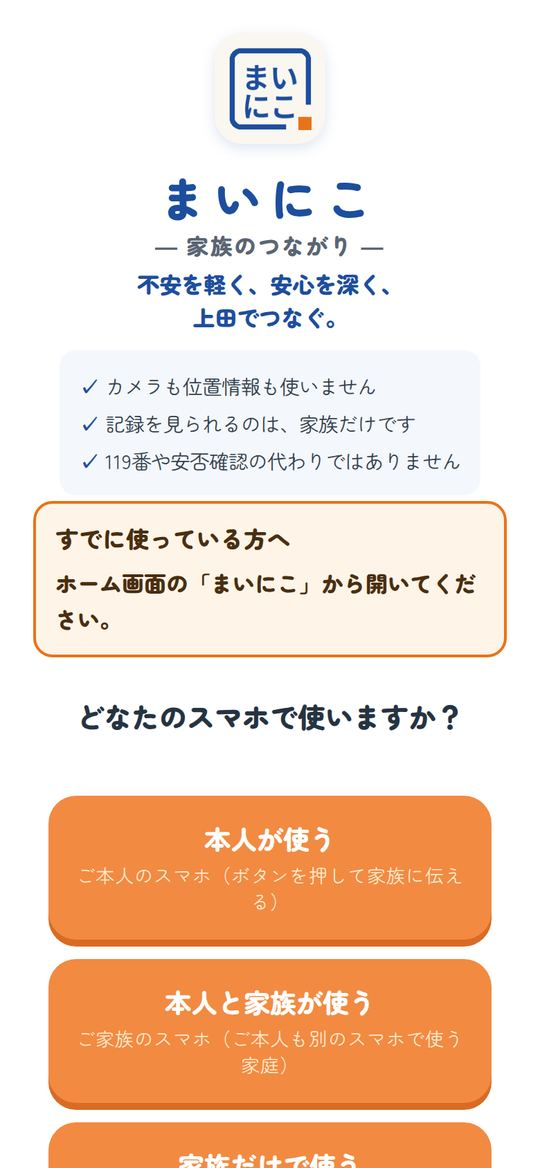
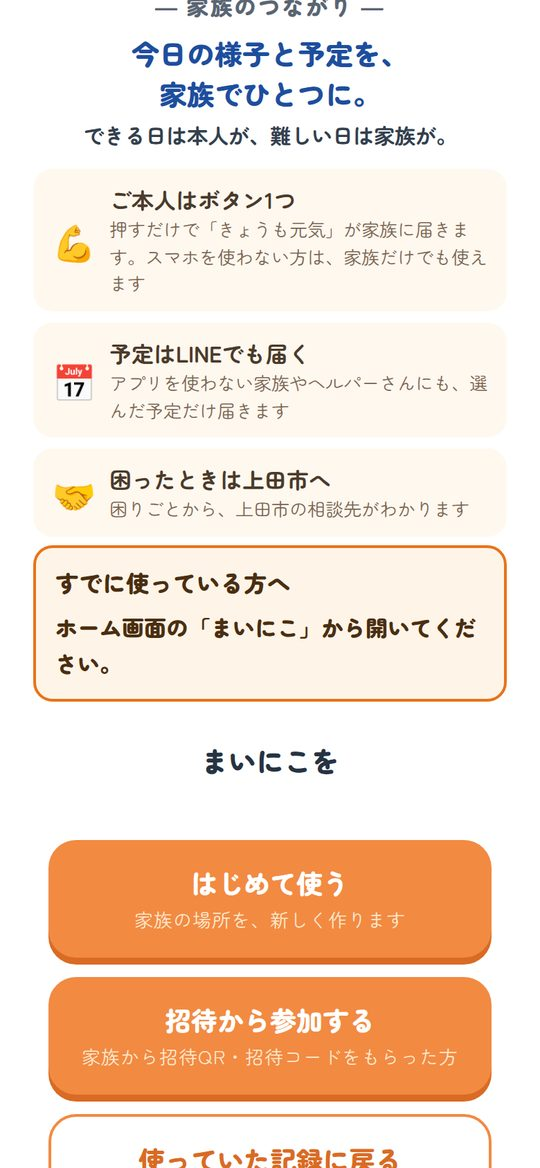
通し確認で見つけた不具合：LINEの知らせる人・家族のLINE表示・メール復旧後の画面・古い説明 (#141)
* LINEの通知：新しい予定で「知らせる人」を選べるように・家族のLINE登録を開いたままの画面にすぐ反映

試験環境で、送信役(worker.js)も実際に動かした通し確認で見つけた2点。
- 家族の予定の入力欄を開いた直後は「LINEで知らせる人」が出ず、選べないまま保存すると
  LINEをつないだ家族全員に届いていた(2件目からは出ていた)。欄を開いたときに出す
- LINE設定を開いたまま、ほかの家族がLINEを登録しても「まだ登録していません」のままだった。
  登録・解除の記録を見張って、すぐ表示を変える
- 再発防止の検査を追加。line-notify.js の読み込み版と sw のキャッシュ名を更新

Claude-Session: https://claude.ai/code/session_01NHzjzuWBmHWp9wX2PF6KgL

* メールで復旧したあと、新しいスマホで使い方を選び直させない・説明を今の入口にそろえる

試験環境の通し確認(古いスマホで復旧設定 → 新しいスマホで「使っていた記録に戻る」)で発見。
- 復旧すると同じ家庭に戻れていたが、入口の「使い方を選んでから」に戻され、「はじめて使う」などが並んでいた。
  使い方はサーバーに保存した本人の選択なので、それで開く(同意は起動時にサーバーで確かめる。古いあいまいな記録は今までどおり選び直し)
- ヘルプ・写真つきの使い方・手順書が、もうない入口のボタン(本人と家族が使う・招待された方・以前のアカウントを復旧する)を案内していた。
  今の入口(はじめて使う／招待から参加する／使っていた記録に戻る→メールとパスワードで戻る)に直し、入口の写真も差し替え
- 復旧画面のボタンと見出しも「メールとパスワードで戻る」「使っていた記録に戻る」にそろえる

Claude-Session: https://claude.ai/code/session_01NHzjzuWBmHWp9wX2PF6KgL

---------

diff --git a/help.html b/help.html
@@ -64,9 +64,9 @@
 <p>家族画面は「安心」→「お薬手帳を開く」、本人画面は「その他の設定」→「このスマホのお薬手帳」から、資料を開いて拡大できます。不要な控えは１件ずつ削除できます。</p>
 <p><a href="#trouble">動かない・保存できないときはこちら</a></p></section>
 
-<section id="start"><h2>はじめの3ステップ</h2><p>新しく作った家庭では、本人の画面ははじめ「おはよう」「お薬」「今日の調子」「ちょっとお願い」「今日の予定」だけの短い形です。カレンダー・自分のやること・予定を入れるボタンは、家族の画面の「⚙ 設定」→「ご本人の画面に出すもの」で出せます。お薬は朝・昼・夜ごとに出す／出さないを選べます。</p><p>家族の画面を初めて開くと、「やりとり → 今日のこと → 設定」の順に短い道案内が出ます。もう一度見たいときは、家族の画面の「⚙ 設定」→「使い方・困ったとき」→「使い方の道案内をもう一度見る」を押してください。</p><p><a href="setup-guide.html">ご家族が代わりに設定するときの手順書（A4で1枚・印刷できます）</a></p><p>本人ホームには今日届いた連絡を表示します。前日以前の挨拶やメッセージは「前の連絡を見る」で日付を選んで確認できます。履歴は削除されません。</p><p>本人画面の日付・時刻、今日の予定、これからの予定、挨拶・気分・服薬・お願いなどの押せる場所は、押すと沈み込み、約0.65秒その状態を見せてから操作が進みます。連打する必要はありません。送信中・記録済み・通信エラーは別の表示で確認してください。</p><ol><li><strong>使い方を選ぶ</strong><br>使い方に合わせて「本人が使う」か「本人と家族が使う」を選びます。本人の代わりに記録する場合は「家族だけで使う」を選びます。本人に分かる方法で説明し、意思を確認してください。</li><li><strong>説明と同意を確認する</strong><br>はじめに「3つのお約束」が大きな字で出ます（本人の画面では声でも読み上げます）。「この内容で進む」を押すと、5つの確認が出ます。内容を読んでから進みます。拒否や不快感がある場合は中止してください。</li><li><strong>家庭を作る、または招待で参加する</strong><br>初めての家庭は作成へ、既に家族が使っている場合は招待で参加へ進みます。新しい家庭を重ねて作らないよう、家族に確認してください。</li></ol><div class="modes"><div class="mode"><h3>本人が使う</h3><p>本人が挨拶や日々の様子などを伝える画面です。</p></div><div class="mode"><h3>本人と家族が使う</h3><p>家族用の画面です。本人からの記録を確認し、返事や予定を共有します。</p></div><div class="mode"><h3>家族だけで使う</h3><p>家族が確認した様子を、家族自身の記録として残します。本人の入力や意思とは区別します。</p></div></div></section>
+<section id="start"><h2>はじめの3ステップ</h2><p>新しく作った家庭では、本人の画面ははじめ「おはよう」「お薬」「今日の調子」「ちょっとお願い」「今日の予定」だけの短い形です。カレンダー・自分のやること・予定を入れるボタンは、家族の画面の「⚙ 設定」→「ご本人の画面に出すもの」で出せます。お薬は朝・昼・夜ごとに出す／出さないを選べます。</p><p>家族の画面を初めて開くと、「今日見ること → 記録する → 設定」の順に短い道案内が出ます。もう一度見たいときは、家族の画面の「⚙ 設定」→「使い方・困ったとき」→「使い方の道案内をもう一度見る」を押してください。</p><p><a href="setup-guide.html">ご家族が代わりに設定するときの手順書（A4で1枚・印刷できます）</a></p><p>本人ホームには今日届いた連絡を表示します。前日以前の挨拶やメッセージは「前の連絡を見る」で日付を選んで確認できます。履歴は削除されません。</p><p>本人画面の日付・時刻、今日の予定、これからの予定、挨拶・気分・服薬・お願いなどの押せる場所は、押すと沈み込み、約0.65秒その状態を見せてから操作が進みます。連打する必要はありません。送信中・記録済み・通信エラーは別の表示で確認してください。</p><ol><li><strong>使い方を選ぶ</strong><br>入口で「はじめて使う」を押し、「このスマホで操作するのは？」に「本人」か「家族」で答えます。「家族」のときは「ご本人も、自分のスマホで使いますか？」に「使う」か「家族だけで使う」で答えます。本人に分かる方法で説明し、意思を確認してください。</li><li><strong>説明と同意を確認する</strong><br>はじめに「3つのお約束」が大きな字で出ます（本人の画面では声でも読み上げます）。「この内容で進む」を押すと、5つの確認が出ます。内容を読んでから進みます。拒否や不快感がある場合は中止してください。</li><li><strong>家庭を作る、または招待で参加する</strong><br>初めての家庭は作成へ、既に家族が使っている場合は入口の「招待から参加する」へ進みます。新しい家庭を重ねて作らないよう、家族に確認してください。</li></ol><div class="modes"><div class="mode"><h3>本人が使う</h3><p>本人が挨拶や日々の様子などを伝える画面です。</p></div><div class="mode"><h3>本人と家族が使う</h3><p>家族用の画面です。本人からの記録を確認し、返事や予定を共有します。</p></div><div class="mode"><h3>家族だけで使う</h3><p>家族が確認した様子を、家族自身の記録として残します。本人の入力や意思とは区別します。</p></div></div></section>
 <section id="family"><h2>家族を招待する</h2>
-<ol><li>管理者が「設定」→「家族の管理」→「家族を追加する」から招待を発行します。</li><li>相手にだけ、非公開の方法で招待コードを渡します。</li><li>参加する人がまいにこを開きます。ご家族は入口の「招待された方」、ご本人のスマホは入口の「本人が使う」を選び、案内に沿って進み、「招待QRを読み取る」を押して管理者の画面に出ている招待QRを映します（カメラの映像は保存も送信もしません）。カメラが使えないときは、コードの文字を入力します。管理者が相手を確かめ、「参加を認める」を押すと、共有機能が使えるようになります。</li></ol>
+<ol><li>管理者が「設定」→「家族の管理」→「家族を追加する」から招待を発行します。</li><li>相手にだけ、非公開の方法で招待コードを渡します。</li><li>参加する人がまいにこを開き、入口の「招待から参加する」を押して、「このスマホで操作するのは？」に答えます。案内に沿って進み、「招待QRを読み取る」を押して管理者の画面に出ている招待QRを映します（カメラの映像は保存も送信もしません）。カメラが使えないときは、コードの文字を入力します。管理者が相手を確かめ、「参加を認める」を押すと、共有機能が使えるようになります。</li></ol>
 <h3>承認を待っているとき</h3><p>「参加状況を確認する」を押します。通信が確認できない間は、そのまま待てます。申請を取り下げたり、同じ申請を続けて送ったりする必要はありません。</p><details><summary>招待した人にお願いするとき</summary><p>まいにこを開き、あなたの参加を認めてもらってください。今連絡できなくても、申請を取り下げる必要はありません。承認待ち画面の案内も確認できます。</p></details>
 <p>コードの発行・入力だけでは共有は始まりません。別の家族の参加がなくなっても、ホームの「やりとり」の欄は残ります。確認できる以前の連絡を読めますが、送り先がいない間は返事を送れません。前の連絡もホームから、本人は「前の連絡を見る」、家族は「前の日のやりとりを見る」で確認できます。</p>
 <p class="small">コードが使用済み・期限切れと確認された場合は、新しい招待をお願いします。管理者の役割を他の人へ譲る機能はありません。</p></section>
@@ -82,14 +82,14 @@
 <ol><li>家族は「設定」→「機種変更・アカウントの復旧」→「端末をなくす前に復旧を設定する」、ご本人は「その他の設定」→「機種変更・スマホをなくしたとき」→「復旧を設定する」を開きます。まだ設定していないときは、設定の画面に「復旧が未設定です」と出ます。</li><li>自分で確認できるメールアドレスと、新しく設定する12文字以上のパスワードを入力し、「このアカウントの復旧を設定する」を押します。</li><li>届いた確認メールのリンクを開いてから、まいにこへ戻り「確認できたか調べる」を押します。準備完了の表示まで確認します。</li></ol>
 <p>メールとパスワードは安全に保管します。チャットや状況メモに書く必要はありません。</p>
 <h3>復旧の準備が済んでいる：新しいスマホで戻る</h3>
-<ol><li>新しいスマホでまいにこを開き、入口の「以前のアカウントを復旧する」を選びます。</li><li>登録・確認済みのメールとパスワードを入力して復旧します。忘れた場合は「パスワードを忘れた方」を使います。</li><li>元の家庭の予定や共有記録が見られることを確認します。確認できない間は、新しい家庭を作ってやり直さず、通信と表示内容を確かめます。</li></ol>
+<ol><li>新しいスマホでまいにこを開き、入口の「使っていた記録に戻る」→「メールとパスワードで戻る」を選びます。</li><li>登録・確認済みのメールとパスワードを入力して復旧します。忘れた場合は「パスワードを忘れた方」を使います。</li><li>元の家庭の予定や共有記録が見られることを確認します。確認できない間は、新しい家庭を作ってやり直さず、通信と表示内容を確かめます。</li></ol>
 <p><strong>お薬手帳の写真・PDFはログイン復旧では戻りません。</strong>旧端末が使える場合は、<a href="#medicine">資料を別に移す手順</a>へ進みます。旧端末が使えない場合は、紙の原本や別に保管したファイルを確認してください。</p>
 <details><summary>機種変更後、古いスマホを片付ける</summary><p>新しいスマホで共有記録と必要な資料を開けることを確認してから、旧端末だけのブラウザーの保存内容や不要なファイルを整理します。</p><p><strong>旧端末の片付けに「参加解除」「ログイン登録削除」「共有データ削除」は使いません。</strong>同じアカウントを使う新端末にも影響します。旧端末の写真を遠隔で消したり、遠隔でログアウトしたりする機能はありません。</p></details>
 <h3>準備する前に端末・保存情報を失った</h3>
 <p>復旧設定がない匿名アカウントへ、元どおり戻ることはできません。別の管理者が家庭を利用できる場合は、新しい招待を受けて、新しい参加者として使う方法があります。元の記録の作成者権限が戻るわけではありません。</p></section>
 <section id="owner"><h2>管理者がスマホをなくしたとき・管理者の交代</h2>
 <table><thead><tr><th>状態</th><th>できること</th></tr></thead><tbody>
-<tr><td>復旧設定済み</td><td>新しいスマホで「以前のアカウントを復旧する」。管理者のまま戻れます。</td></tr>
+<tr><td>復旧設定済み</td><td>新しいスマホで「使っていた記録に戻る」→「メールとパスワードで戻る」。管理者のまま戻れます。</td></tr>
 <tr><td>未設定だが、元のスマホがまだ使える</td><td>先に元のスマホで復旧を設定してください。または、下の「管理者の交代」で家族に引き継げます。</td></tr>
 <tr><td>未設定で、元のスマホも使えない</td><td>元のアカウントには戻れません。管理者も自動では移りません。ほかの家族は、記録・予定・やりとりを今までどおり使えます。</td></tr>
 </tbody></table>

diff --git a/line-notify.js b/line-notify.js
@@ -106,10 +106,11 @@
      本人の画面では、カード2〜4を「LINEの送信先（ほかの人）」の中にたたむ
      招待した人(アプリを使わない人)には、予定ごとに「知らせる」と選んだ予定だけが届く。
      LINEの利用者識別子は画面に置かない(登録は送信役が、署名を確かめたLINEの受付から行う) */
-  var renderSeq=0, linkWatch=null, recipientWatch=null, INVITE_DAYS=7;
+  var renderSeq=0, linkWatch=null, recipientWatch=null, familyWatch=null, INVITE_DAYS=7;
   function stopWatch(){
     if(linkWatch){ try{ linkWatch(); }catch(e){} linkWatch=null; }
     if(recipientWatch){ try{ recipientWatch(); }catch(e){} recipientWatch=null; }
+    if(familyWatch){ try{ familyWatch(); }catch(e){} familyWatch=null; }
   }
   /* LINEのトーク画面を、文字を入れた状態で開くURL(送信を押すだけ) */
   function sendCodeUrl(code){ return 'https://line.me/R/oaMessage/'+encodeURIComponent(LINE_ID)+'/?'+encodeURIComponent(code); }
@@ -275,25 +276,28 @@
     var box=area.querySelector('[data-line-family]');
     if(!box||typeof global.col!=='function') return;
     var members=[], latest={}, friendAt={};
-    try{
-      var ms_=await global.col('members').where('status','==','approved').get();
-      ms_.forEach(function(d){ var v=d.data()||{}; members.push({id:d.id,name:v.name||'',role:roleOf(v)}); });
-      var logs=await global.col('events').where('type','==','line-link-log').get();
-      var rows=[]; logs.forEach(function(d){ rows.push(d.data()); });
+    /* 連携・解除の最新と、友だち追加の確認の最新を分けて見る('friend'は友だち追加を確認した記録) */
+    var readLogs=function(snap){
+      var rows=[]; snap.forEach(function(d){ rows.push(d.data()); });
       rows.sort(function(a,b){ return ms(b)-ms(a); });
-      /* 連携・解除の最新と、友だち追加の確認の最新を分けて見る('friend'は友だち追加を確認した記録) */
+      latest={}; friendAt={};
       rows.forEach(function(v){
         if(!v.uid) return;
         if(v.action==='friend'){ if(!(v.uid in friendAt)) friendAt[v.uid]=v; return; }
         if(!latest[v.uid]) latest[v.uid]=v;
       });
+    };
+    try{
+      var ms_=await global.col('members').where('status','==','approved').get();
+      ms_.forEach(function(d){ var v=d.data()||{}; members.push({id:d.id,name:v.name||'',role:roleOf(v)}); });
+      readLogs(await global.col('events').where('type','==','line-link-log').get());
     }catch(e){
       if(seq===renderSeq) box.innerHTML='<p class="note">送信先を読み込めませんでした。通信を確認してください。</p>';
       return;
     }
     if(seq!==renderSeq) return;
     members.sort(function(a,b){ return (a.id===myUid?-1:0)-(b.id===myUid?-1:0); });
-    familyRows=members.map(function(m){
+    var makeRows=function(){ familyRows=members.map(function(m){
       var self=m.id===myUid, l=latest[m.id];
       var on=self?!!selfLinked:!!(l&&l.action==='linked');
       var friend=null;
@@ -305,7 +309,8 @@
         if(!self&&f&&l&&ms(f)>=ms(l)) friend=true;
       }
       return {id:m.id,name:m.name,role:m.role,self:self,ok:on,friend:friend};
-    });
+    }); };
+    makeRows();
     var g=typeof global.gid==='function'?global.gid():'';
     var recBox=area.querySelector('[data-line-recipients]');
     var draw=function(){
@@ -321,6 +326,14 @@
         draw();
       },function(){ recipientRows=[]; draw(); });
     }catch(e){ recipientRows=[]; draw(); }
+    /* ほかの家族がLINEを登録・解除したら、開いたままの画面もすぐ変える(2026-10-10 通し確認で発見:
+       開いたままだと「まだ登録していません」「LINEの登録を頼む」が残っていた)。自分の行は watchLink が変える */
+    try{
+      familyWatch=global.col('events').where('type','==','line-link-log').onSnapshot(function(snap){
+        if(seq!==renderSeq) return;
+        readLogs(snap); makeRows(); draw();
+      },function(){});
+    }catch(e){}
     draw();
   }
   /* LINEの状態の表示(ヒビルカと同じ「✓ 登録済み」)。友だち追加が「ない」と分かったときだけ警告する */

diff --git a/index.html b/index.html
@@ -1223,7 +1223,7 @@ a.set-btn.ln-line,a.set-btn.ln-soft{text-decoration:none;}
     <p class="note">この端末で今開いている登録には復旧設定がありません。切り替えると今の登録に戻れなくなることがあります。今の記録やお薬手帳は、切り替え先には移りません。</p>
     <label style="display:block;padding:16px 0"><input type="checkbox" id="recovery-leave-confirm"> 今の登録に残したい記録・お薬手帳はありません</label>
   </div>
-  <button class="set-btn" id="recovery-login" onclick="runRecoveryAction('login')">以前のアカウントを復旧する</button>
+  <button class="set-btn" id="recovery-login" onclick="runRecoveryAction('login')">メールとパスワードで戻る</button>
   <button class="set-btn" onclick="runRecoveryAction('reset')">パスワードを忘れた方</button>
   <p class="note">写真・PDFのお薬手帳は、このログイン復旧では戻りません。機種変更後の旧端末で、参加解除やアカウント削除はしないでください。</p>
   <a class="consent-back" href="help.html#recovery" target="_blank" rel="noopener">状況に合う復旧・機種変更の手順を見る</a>
@@ -2110,7 +2110,7 @@ a.set-btn.ln-line,a.set-btn.ln-soft{text-decoration:none;}
     <!-- 予定 -->
     <div class="ftab" id="t-yotei" style="display:none;">
       <div class="card dom-yotei" id="line-schedule-detail" style="display:none;" aria-live="polite"></div>
-      <details class="card dom-yotei schedule-form-card" id="yt-form-card" ontoggle="if(!this.open&&editingYoteiId)clearYoteiForm()">
+      <details class="card dom-yotei schedule-form-card" id="yt-form-card" ontoggle="if(this.open)ensureYoteiWho();else if(editingYoteiId)clearYoteiForm()">
         <summary class="yt-open">＋ 予定を入れる</summary>
         <h3 id="yt-form-title">予定を登録する</h3>
         <div class="yt-simple">
@@ -2396,14 +2396,14 @@ setTimeout(function(){
 /* 引っ越しの番号は、起動の最初にURLから取り出して消す(画面にも記録にも出さない) */
 window.mainicoMoveCode=MainicoDeviceMove.takeCode(location,history);
 </script>
-<script src="household-ui.js?v=20261010"></script>
+<script src="household-ui.js?v=20261010b"></script>
 <script src="medicine-notebook.js?v=20261001"></script>
 <script src="notebook-integration.js?v=20260930"></script>
 <script src="person-speech.js?v=20260917-voice"></script>
 <script src="person-button-feedback.js?v=20260917-voice"></script>
 <script src="family-connection.js?v=20260917-legacy"></script>
 <script src="person-tasks.js?v=20260930"></script>
-<script src="line-notify.js?v=20261010a"></script>
+<script src="line-notify.js?v=20261010b"></script>
 <script src="line-login.js?v=20261001"></script>
 <script src="line-login-ui.js?v=20261003"></script>
 <script src="hitokoe.js?v=20261004"></script>
@@ -6827,6 +6827,13 @@ function setYoteiSaveState(text,isError){
   const el=document.getElementById('yt-save-state');
   el.textContent=text||'';
   el.classList.toggle('err',!!isError);
+}
+/* 新しい予定の「LINEで知らせる人」を、入力欄を開いたときに出す(2026-10-10 最終レビューの通し確認で発見)。
+   出していないと選べず、保存するとLINEをつないだ家族全員に届いていた。修正中の予定は editYotei が出す */
+function ensureYoteiWho(){
+  if(editingYoteiId||typeof MainicoLine==='undefined'||!MainicoLine.renderWho)return;
+  const box=document.getElementById('yt-notify-who');
+  if(box&&!box.innerHTML.trim())MainicoLine.renderWho('yt-notify-who',null);
 }
 function clearYoteiForm(){
   editingYoteiId='';

diff --git a/guide/index.html b/guide/index.html
@@ -143,7 +143,7 @@
     <div class="step with-pic">
       <div>
         <h3><span class="n">1</span>まいにこを開いて、使い方を選ぶ</h3>
-        <p>上の <span class="btnlike or">アプリを開く</span> を押します。<br>家族のスマホなら <span class="btnlike or">本人と家族が使う</span> を選びます。</p>
+        <p>上の <span class="btnlike or">アプリを開く</span> を押し、<span class="btnlike or">はじめて使う</span> → <span class="btnlike or">家族</span> と進みます。<br>ご本人も自分のスマホで使うなら <span class="btnlike or">使う</span>、家族だけで使うなら <span class="btnlike or">家族だけで使う</span> を選びます。</p>
       </div>
       <div class="phones"><figure class="phone"><div class="frame"><img src="img/01-entry.jpg" alt="まいにこの入口の画面" loading="lazy"></div><figcaption>最初の画面</figcaption></figure></div>
     </div>
@@ -328,7 +328,7 @@
         <h3><span class="n">1</span>「復旧を設定する」</h3>
         <p>「設定」→「機種変更・アカウントの復旧」で、メールアドレスとパスワード（12文字以上）を入れます。届いたメールのリンクを開けば完了です。</p>
         <h3><span class="n">2</span>新しいスマホで戻る</h3>
-        <p>新しいスマホでまいにこを開き、入口の <span class="btnlike">以前のアカウントを復旧する</span> から入ります。</p>
+        <p>新しいスマホでまいにこを開き、入口の <span class="btnlike">使っていた記録に戻る</span> → <span class="btnlike">メールとパスワードで戻る</span> から入ります。</p>
         <div class="tip"><b>ポイント</b>　ご本人も家族も、それぞれ自分のスマホで設定してください。パスワードは紙に書かず、安全な場所に。</div>
       </div>
       <div class="phones"><figure class="phone"><div class="frame"><img src="img/18-recovery.jpg" alt="復旧の設定" loading="lazy"></div><figcaption>復旧の設定</figcaption></figure></div>

diff --git a/household-ui.js b/household-ui.js
@@ -134,6 +134,9 @@ function applyRecoveryJournal(){
   previewStorage.setItem('mainicoMode',result.mode==='honnin'?'honnin':'kazoku');
   previewStorage.setItem('kazokuOnly',result.mode==='konly'?'1':'');
   if(result.modeNeedsConfirmation)previewStorage.removeItem('mainicoMode');
+  /* 使い方はサーバーに保存した本人の選択(member.mode)なので、新しいスマホでもそのまま開く(2026-10-10 通し確認で発見:
+     メールで復旧すると入口の「使い方を選んでから」に戻され、「はじめて使う」と迷っていた)。同意は起動時にサーバーで確かめる */
+  else previewStorage.setItem('mainicoModeChoiceV1',JSON.stringify([result.uid,result.groupId,result.mode]));
   localStorage.removeItem(RECOVERY_JOURNAL);
   return true;
 }
@@ -158,7 +161,7 @@ async function openRecovery(switchAccount=false){
   pw.value='';pw.setAttribute('autocomplete',newPassword?'new-password':'current-password');
   const pwLabel=document.getElementById('recovery-password-label');
   if(pwLabel)pwLabel.textContent=newPassword?'新しいパスワード（12文字以上・ほかで使っていないもの）':'登録したパスワード';
-  document.getElementById('recovery-title').textContent=registering?'復旧の設定（機種変更・なくしたときのため）':'以前のアカウントに戻す';
+  document.getElementById('recovery-title').textContent=registering?'復旧の設定（機種変更・なくしたときのため）':'使っていた記録に戻る';
   recoveryState(switchAccount?'復旧設定を済ませたメールアドレスとパスワードを入力してください。':gid()?'このアカウントに、復旧用のメールアドレスを登録します。確認メールのリンクを開いたあと「確認できたか調べる」を押してください。':'以前に登録・確認したメールアドレスで、家族との接続を復旧します。');
 }
 function closeRecovery(){

diff --git a/guide/trouble.html b/guide/trouble.html
@@ -163,7 +163,7 @@
     <div id="newphone" class="step with-pic">
       <div>
         <h3><span class="n">6</span>スマホを替えた・なくした</h3>
-        <p>新しいスマホでまいにこを開き、<span class="btnlike">以前のアカウントを復旧する</span> から、復旧で設定したメールとパスワードを入れます。</p>
+        <p>新しいスマホでまいにこを開き、<span class="btnlike">使っていた記録に戻る</span> → <span class="btnlike">メールとパスワードで戻る</span> から、復旧で設定したメールとパスワードを入れます。</p>
         <p>なくしたスマホは、「設定」→「機種変更・アカウントの復旧」→ <span class="btnlike">ほかのスマホを止める</span> で使えなくできます。</p>
         <div class="tip"><b>ポイント</b>　復旧の設定をしていないと戻れません。いまのうちに設定してください（<a href="./#recovery">やり方</a>）。</div>
       </div>

diff --git a/setup-guide.html b/setup-guide.html
@@ -44,7 +44,7 @@ footer{font-size:10.5px;color:#555;margin-top:6px}
 <h2>1．ご家族のスマホで（先に行います）</h2>
 <ol>
   <li><span class="who">家族</span>上のQRを読み取り、まいにこを開く。「ホーム画面に追加」をしておく</li>
-  <li><span class="who">家族</span>入口で<b>「本人と家族が使う」</b>を選び、説明を読んで同意し、「家族とつながる」画面で<b>「新しくはじめる」</b>を押す</li>
+  <li><span class="who">家族</span>入口で<b>「はじめて使う」→「家族」→「使う」</b>を選び、説明を読んで同意し、「家族とつながる」画面で<b>「新しくはじめる」</b>を押す</li>
   <li><span class="who">家族</span>「設定」→「家族の管理」→「家族を追加する」の<b>「招待コードを作る」</b>。8文字のコードを下のメモ欄に書く（24時間・1回だけ使えます）</li>
 </ol>
 

diff --git a/sw.js b/sw.js
@@ -2,7 +2,7 @@
    - 通信できるときは常に最新を取りに行き、取れたものを端末に控えておく(ネット優先)。
    - 電波がないときは控えを使う。アプリの画面が開けないときは offline.html(もしもの控え)を出す。
    - 共有記録(Firestore)の通信は控えない。控えるのは画面の部品だけ。 */
-const CACHE = 'mainico-shell-v16';  /* 2026-10-10 最終レビュー(入口の文・LINEの説明) */
+const CACHE = 'mainico-shell-v17';  /* 2026-10-10 知らせる人の選択・家族のLINE表示の更新 */
 const SHELL = [
   './', 'index.html', 'offline.html', 'help.html', 'privacy.html', 'manifest.json',
   'icon-192.png', 'icon-512.png', 'apple-touch-icon.png',
